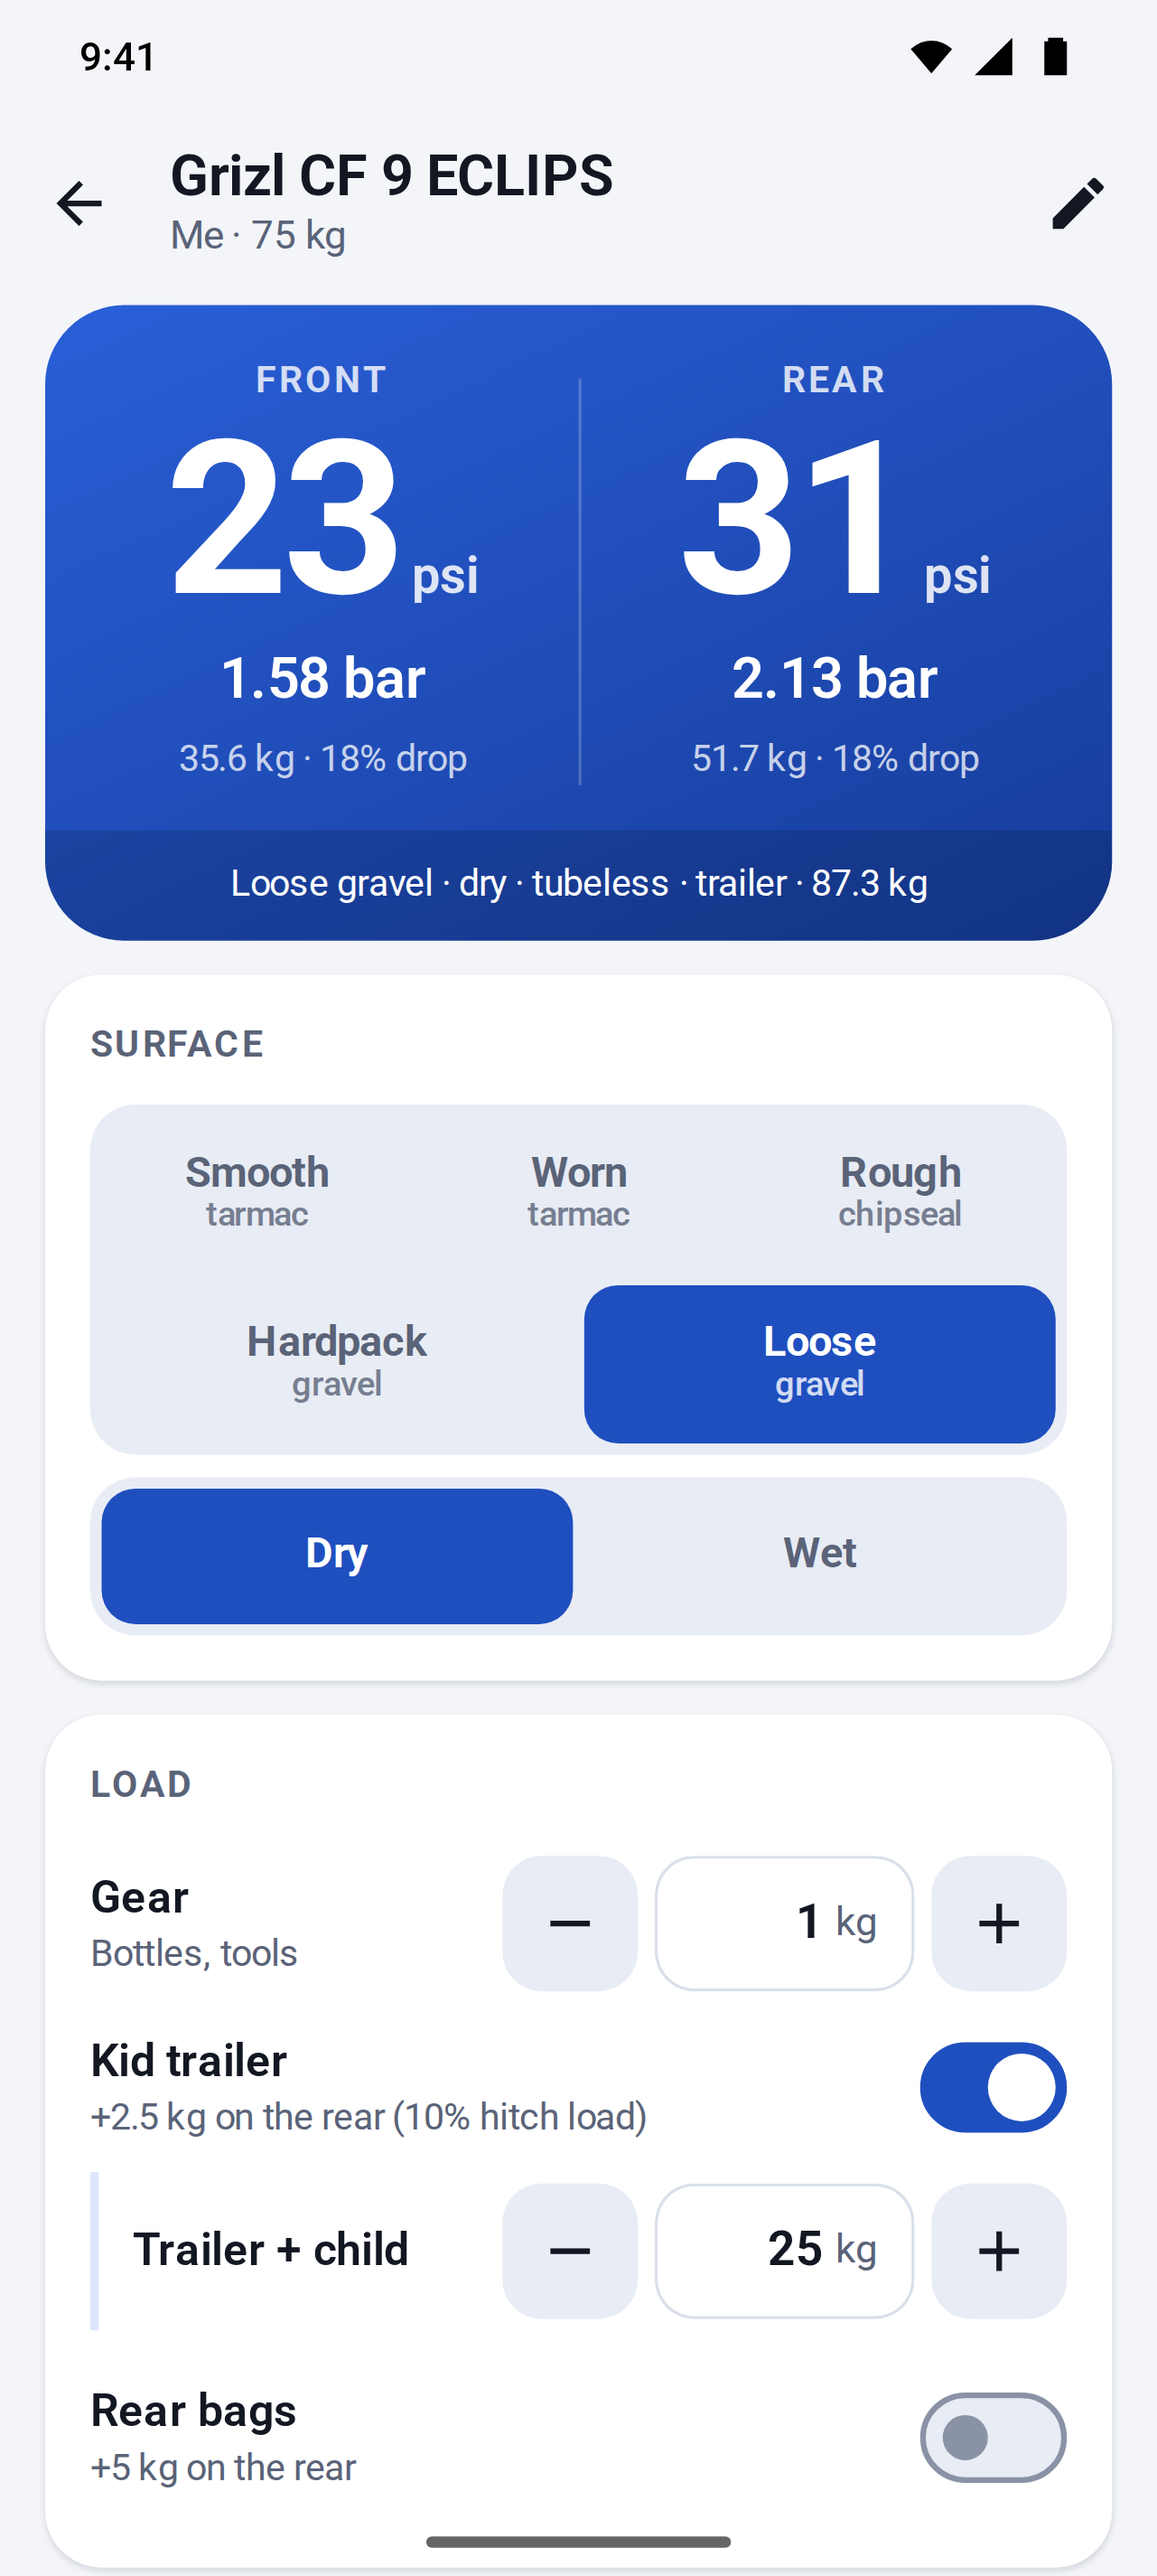
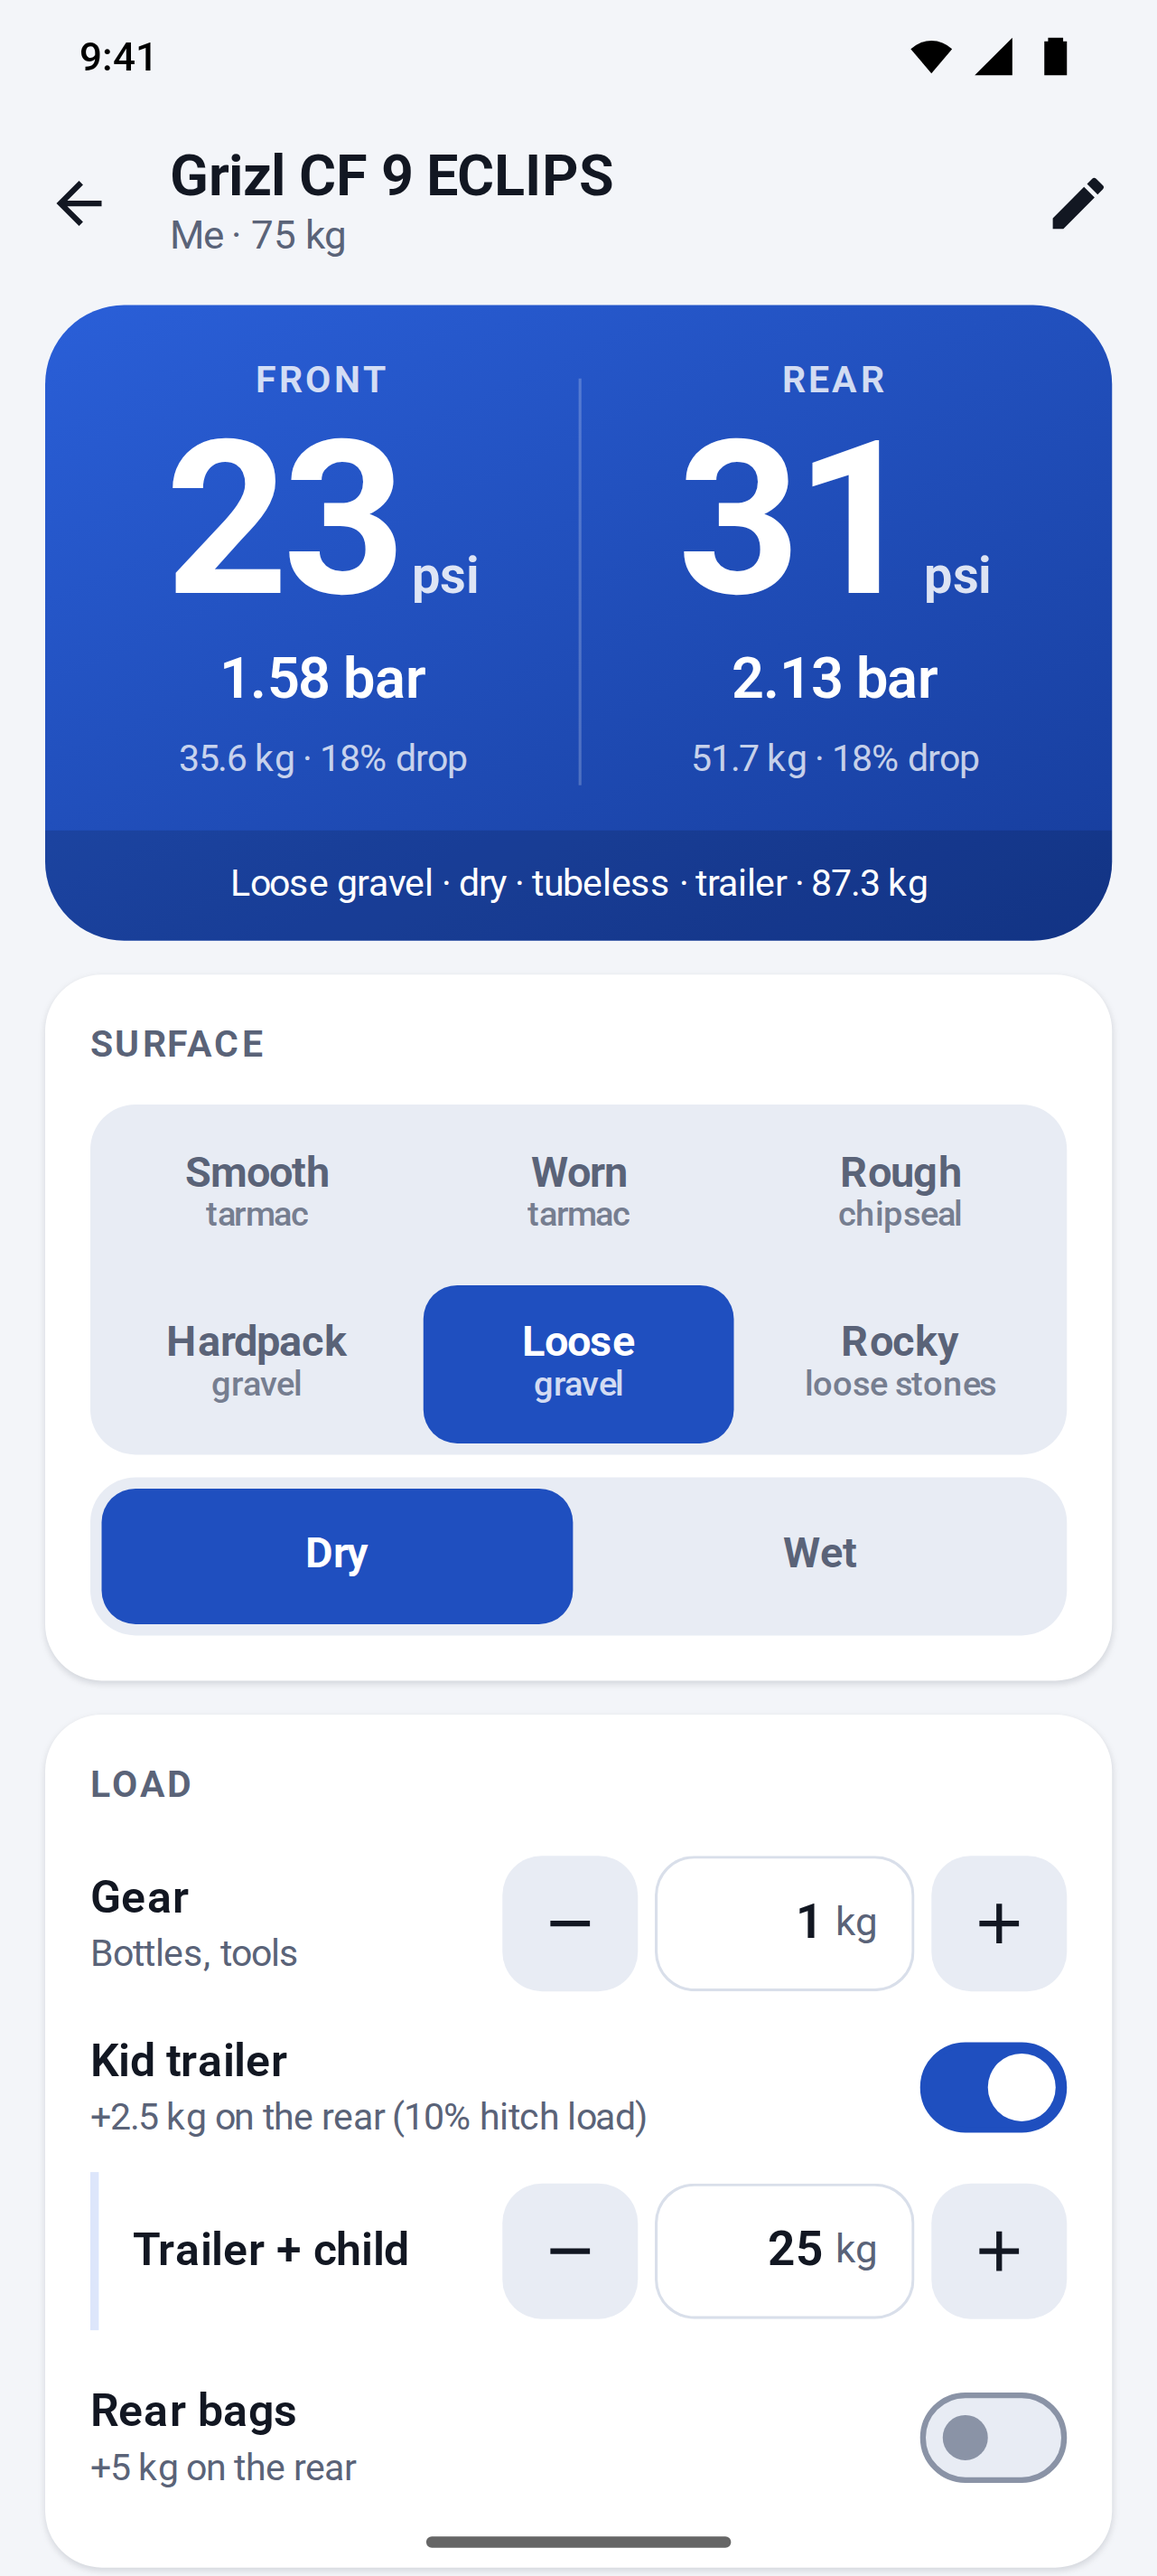
Add a rocky surface
A sixth surface, "Rocky" (loose stones), for chunky, loose-rock paths
beyond loose gravel. Its multiplier, 0.73, is hardpack x 0.808: the step
between the smoothest and roughest gravel categories of Silca's Pro
calculator, whose step to its middle category (0.909) already matches
our loose/hardpack step (0.911). The Grizl gets about 20/26 psi. SRAM
AXS only has dry or wet gravel, so there is no SRAM reference.

The surface control is now 3 road + 3 gravel, and rocky rides get an
info note that sharp rocks can hit the rim, suggesting tire inserts.

Copilot-Session: 3e803c70-81c8-48c4-b694-af37656ba006

Changed region(s): [[0.1561, 0.4996, 0.5621, 0.5621], [0.6245, 0.4996, 0.9368, 0.5621]]

diff --git a/src/model/pressure.test.ts b/src/model/pressure.test.ts
@@ -214,10 +214,13 @@ describe('monotonicity', () => {
   });
 
   it('rougher surfaces get lower pressure', () => {
-    const order = ['smooth', 'worn', 'rough', 'loose'] as const;
+    const order = ['smooth', 'worn', 'rough', 'loose', 'rocky'] as const;
     const psi = order.map((surface) => computePressure({ ...road, surface }).front.psi);
     for (let i = 1; i < psi.length; i++) expect(psi[i]).toBeLessThan(psi[i - 1]!);
     expect(computePressure({ ...road, surface: 'hardpack' }).front.psi).toBeGreaterThan(psi[3]!);
+    // The gravel steps follow Silca's Pro calculator's three gravel categories.
+    expect(SURFACE.loose / SURFACE.hardpack).toBeCloseTo(0.909, 2);
+    expect(SURFACE.rocky / SURFACE.hardpack).toBeCloseTo(0.808, 2);
     for (const surface of SURFACES) expect(SURFACE[surface]).toBeLessThanOrEqual(1);
   });
 });
@@ -313,6 +316,13 @@ describe('limits and warnings', () => {
   it('flags hookless with tubes and odd weight splits', () => {
     const r = computePressure({ ...road, hookless: true, tubeless: false, frontShare: 0.6 });
     expect(r.warnings.filter((w) => w.level === 'info')).toHaveLength(2);
+  });
+
+  it('suggests tire inserts on rocky ground only', () => {
+    const inserts = (surface: RideSettings['surface']) =>
+      ride('seed-grizl', { surface }).warnings.filter((w) => /inserts/.test(w.message));
+    expect(inserts('rocky')).toEqual([expect.objectContaining({ level: 'info', wheels: [] })]);
+    for (const surface of SURFACES.filter((s) => s !== 'rocky')) expect(inserts(surface)).toEqual([]);
   });
 
   it('rejects nonsense input', () => {
@@ -614,6 +624,7 @@ describe('seed bikes: regression snapshot', () => {
     ['seed-endurace', { surface: 'rough', wet: true }, 43.2, 46.1],
     ['seed-grizl', { surface: 'hardpack' }, 25.2, 32.6],
     ['seed-grizl', { surface: 'loose', trailer: true }, 22.9, 30.9],
+    ['seed-grizl', { surface: 'rocky' }, 20.4, 26.4],
   ];
   it.each(cases)('%s %o → %f / %f psi', (id, overrides, front, rear) => {
     const r = ride(id, overrides);

diff --git a/src/model/coefficients.ts b/src/model/coefficients.ts
@@ -101,7 +101,7 @@ export const WHEEL = {
   exponent: 0.5,
 } as const;
 
-export type Surface = 'smooth' | 'worn' | 'rough' | 'hardpack' | 'loose';
+export type Surface = 'smooth' | 'worn' | 'rough' | 'hardpack' | 'loose' | 'rocky';
 
 /**
  * Surface "breakpoint" multipliers. On rough surfaces the extra pressure that
@@ -110,13 +110,18 @@ export type Surface = 'smooth' | 'worn' | 'rough' | 'hardpack' | 'loose';
  * the finding of the Silca, Rene Herse/Bicycle Quarterly and
  * bicyclerollingresistance.com roll-down tests; the exact values are our own
  * conservative choice, not copied from any calculator.
+ *
+ * Rocky is scaled from hardpack by the step Silca's Pro calculator makes
+ * between its smoothest and roughest gravel categories (× 0.808). Its step to
+ * the middle category (× 0.909) matches our loose/hardpack step (0.911).
  */
 export const SURFACE: Record<Surface, number> = {
   smooth: 1.0, // new, smooth tarmac
   worn: 0.94, // average, patched tarmac
   rough: 0.87, // chipseal, broken tarmac, cobbles
   hardpack: 0.9, // smooth, compacted gravel
-  loose: 0.82, // loose or chunky gravel
+  loose: 0.82, // loose gravel
+  rocky: 0.73, // chunky, loose rock: hardpack × 0.808
 };
 
 export const CONDITIONS = {

diff --git a/screenshots/app.spec.ts b/screenshots/app.spec.ts
@@ -99,6 +99,20 @@ test('Grizl on loose gravel with the trailer', async ({ page }) => {
   await shoot(page, '3-grizl-gravel-trailer');
 });
 
+test('Grizl on a rocky path', async ({ page }) => {
+  await open(page, '#/ride/seed-grizl');
+  await page.getByRole('radio', { name: /Hardpack/ }).click();
+  const front = async () => Number(await page.locator('.psi-num').first().textContent());
+  const hardpack = await front();
+  await expect(page.getByText(/inserts/)).toBeHidden();
+  await page.getByRole('radio', { name: /Rocky/ }).click();
+  await expect(page.getByRole('radio', { name: /Rocky/ })).toHaveAttribute('aria-checked', 'true');
+  await expect.poll(front).toBeLessThan(hardpack);
+  await expect(page.locator('.alert', { hasText: /inserts/ })).toBeVisible();
+  await expect(page.locator('.result-foot')).toContainText('Rocky path');
+  await shoot(page, '11-grizl-rocky');
+});
+
 /** CSS px left above the Gboard keyboard (plus its nav row) on the Pixel 10 Pro. */
 const ABOVE_KEYBOARD = 590;
 

diff --git a/src/ui/views.ts b/src/ui/views.ts
@@ -55,6 +55,7 @@ const SURFACE_ITEMS: { value: Surface; label: string; sub: string; summary: stri
   { value: 'rough', label: 'Rough', sub: 'chipseal', summary: 'Rough tarmac' },
   { value: 'hardpack', label: 'Hardpack', sub: 'gravel', summary: 'Hardpack gravel' },
   { value: 'loose', label: 'Loose', sub: 'gravel', summary: 'Loose gravel' },
+  { value: 'rocky', label: 'Rocky', sub: 'loose stones', summary: 'Rocky path' },
 ];
 
 const README_URL = 'https://github.com/redsun82/tire-pressure#how-the-pressure-is-calculated';

diff --git a/src/model/pressure.ts b/src/model/pressure.ts
@@ -359,6 +359,13 @@ export function computePressure(input: PressureInput): PressureResult {
   if (conflict) warnings.push({ level: 'danger', wheels: [], message: conflict });
   warnings.push(...wheelWarnings(calc, input));
 
+  if (input.surface === 'rocky') {
+    warnings.push({
+      level: 'info',
+      wheels: [],
+      message: 'Rocky ground: at these pressures sharp rocks can hit the rim. Consider tire inserts.',
+    });
+  }
   if (input.hookless && !input.tubeless) {
     warnings.push({
       level: 'info',

diff --git a/src/model/profile.ts b/src/model/profile.ts
@@ -100,7 +100,7 @@ export function wheelSizeName(bsdMm: number): string {
   return WHEEL_SIZES.find((w) => w.bsdMm === bsdMm)?.name ?? `${bsdMm} mm`;
 }
 
-export const SURFACES: readonly Surface[] = ['smooth', 'worn', 'rough', 'hardpack', 'loose'];
+export const SURFACES: readonly Surface[] = ['smooth', 'worn', 'rough', 'hardpack', 'loose', 'rocky'];
 
 export const SEED_PROFILES: readonly Profile[] = [
   {

diff --git a/src/style.css b/src/style.css
@@ -631,15 +631,7 @@ button {
 }
 
 .segmented-surface {
-  grid-template-columns: repeat(6, 1fr);
-}
-
-.segmented-surface > :nth-child(-n + 3) {
-  grid-column: span 2;
-}
-
-.segmented-surface > :nth-child(n + 4) {
-  grid-column: span 3;
+  grid-template-columns: repeat(3, 1fr);
 }
 
 .segmented-surface button {

diff --git a/README.md b/README.md
@@ -23,7 +23,7 @@ An offline-first PWA that recommends front and rear tire pressures for each bike
 
 The model is our own implementation. Every coefficient lives in [`src/model/coefficients.ts`](src/model/coefficients.ts), and the computation is in [`src/model/pressure.ts`](src/model/pressure.ts).
 
-The SRAM/Zipp and Silca calculators are proprietary, and we did not copy their maths. We did use outputs of the SRAM AXS calculator to calibrate two constants and as test references (see *Validation* below).
+The SRAM/Zipp and Silca calculators are proprietary, and we did not copy their maths. We did use outputs of the SRAM AXS calculator to calibrate two constants and as test references (see *Validation* below), and the step between two of Silca's surface categories for the rocky surface.
 
 ### 1. Wheel load
 
@@ -86,10 +86,11 @@ The base pressure is multiplied by:
 | Rough tarmac / chipseal | 0.87 | Surface "breakpoint": on rougher surfaces, lower pressure reduces suspension losses (Silca, Rene Herse/BQ and bicyclerollingresistance.com roll-down tests) |
 | Hardpack gravel | 0.90 | |
 | Loose gravel | 0.82 | |
+| Rocky path (loose stones) | 0.73 | Hardpack × 0.808, the step between the smoothest and roughest gravel categories of Silca's Pro calculator |
 | Wet | × 0.95 | More grip from a larger contact patch |
 | Inner tubes | × 1.05 | Small margin against pinch flats (tubeless is the baseline) |
 
-The surface values are our own conservative picks within the ranges that research suggests. They are not taken from any calculator.
+The surface values are our own conservative picks within the ranges that research suggests. Rocky is the exception: it extends our gravel steps with Silca's. Our loose/hardpack step (0.911) already matches Silca's step to its middle gravel category (0.909), so rocky takes the step to its roughest one. The SRAM AXS calculator has no rougher gravel terrain to compare with (gravel is only dry or wet), so rocky has no SRAM reference.
 
 ### 6. Temperature
 
@@ -111,7 +112,7 @@ The ride temperature can come from [Open-Meteo](https://open-meteo.com/en/docs)'
 
 - **Hookless rims** are capped at **5 bar / 72.5 psi** (ETRTO / ISO). Optional tire max, tire min and rim max limits from the sidewall or rim manual also clamp the result. Displayed values never round past a limit, clamped or not: a 72.5 psi hookless cap shows as 72, and a 55.8 psi result under a 55.9 psi tire max shows as 55. When no whole step fits between the limits, up to two more decimals are shown (30.3 psi between 30.2 and 30.4); equal limits show the limit itself (min = max = 30 psi is 2.0684 bar). The maximum always wins: if the tire minimum is above the rim or tire maximum, the app caps at the maximum, flags the combination as unsafe, and the editor won't save it.
 - **Estimated tire drop** at the recommended pressure is `15% × P_base / P`, shown under each wheel. The app warns above 20% (tubeless: risk of rim strikes) or 18% (tubes: risk of pinch flats).
-- Info notes cover very low pressures (< 18 psi), hookless rims with tubes, and front shares outside 30–55%.
+- Info notes cover very low pressures (< 18 psi), hookless rims with tubes, front shares outside 30–55%, and rocky ground, where sharp rocks can hit the rim at these pressures, so tire inserts are worth considering.
 
 ### Validation
 
